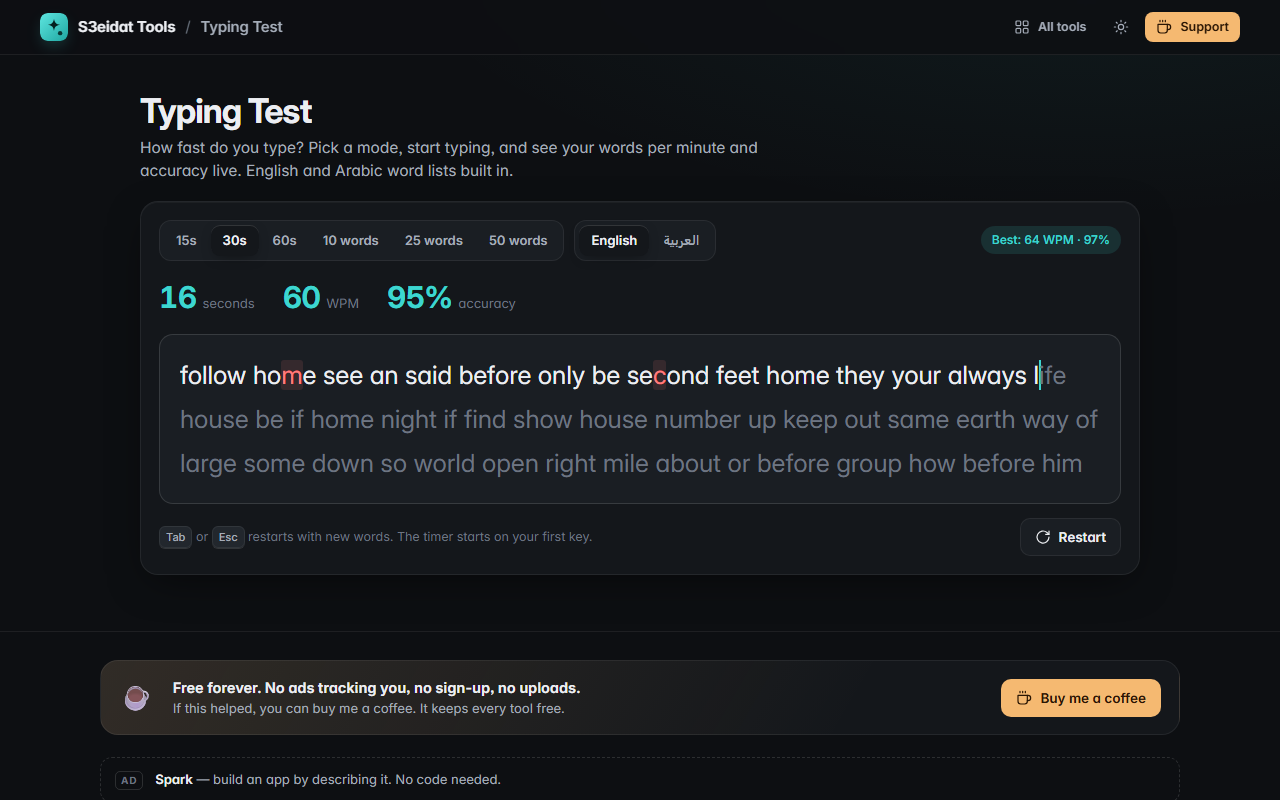
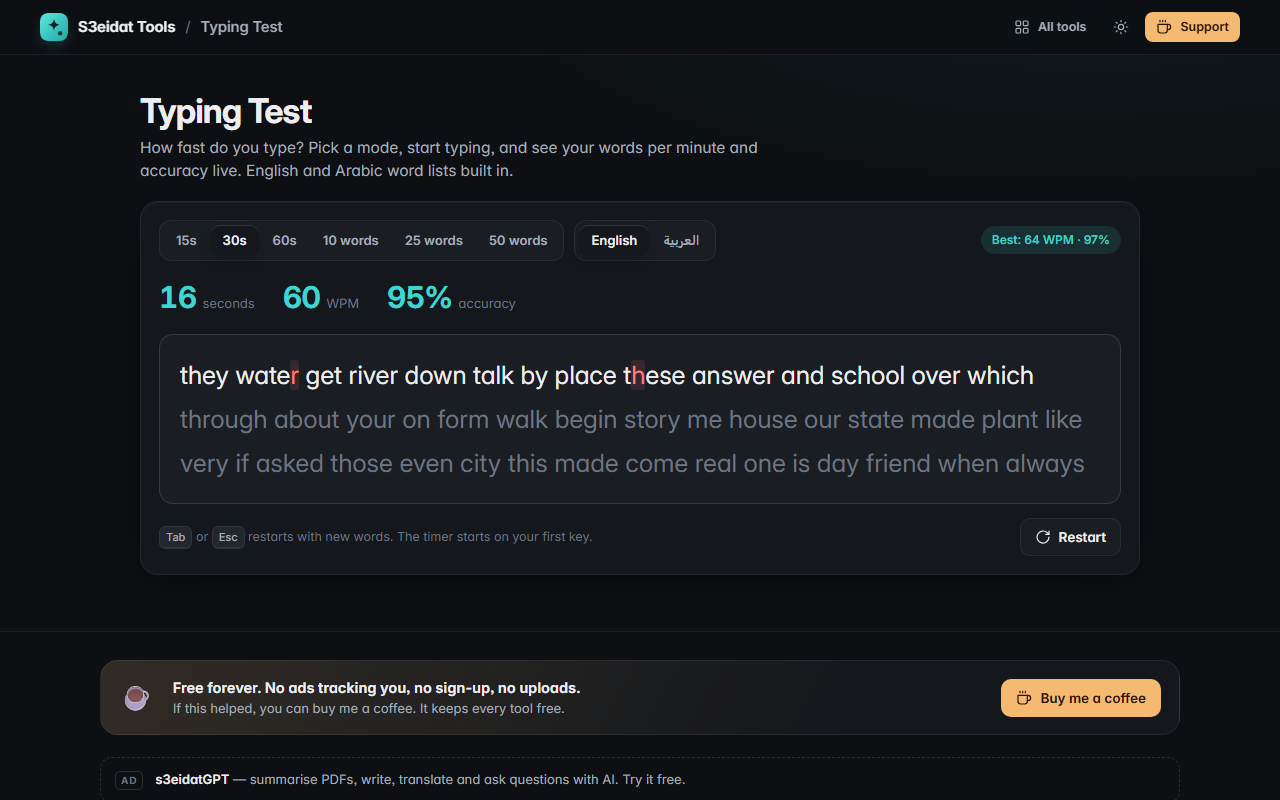
Update

Changed region(s): [[0.125, 0.4375, 0.875, 0.5938], [0.125, 0.9688, 0.5312, 1.0]]

diff --git a/kit/kit.js b/kit/kit.js
@@ -3,8 +3,8 @@
   "use strict";
 
   // Donation links are PUBLIC checkout URLs (no keys). Filled by scripts/sync_kit.py from _kit/config.json.
-  var CONFIG = /*@@CONFIG@@*/{"brand": "S3eidat Tools", "owner": "s3eidat", "support": {"stripe": [{"emoji": "☕", "price": "$3", "label": "One coffee", "url": "https://donate.stripe.com/5kQ28q1FRdYD8UH7SicIE04"}, {"emoji": "☕☕☕", "price": "$9", "label": "Three coffees", "popular": true, "url": "https://donate.stripe.com/4gMeVcgAL7Af4Era0qcIE05"}, {"emoji": "🍰", "price": "$15", "label": "Coffee and cake", "url": "https://donate.stripe.com/00w5kC84f9In6Mz0pQcIE06"}, {"emoji": "💛", "price": "Any amount", "label": "You choose", "url": "https://donate.stripe.com/14AeVc3NZg6L6Mzb4ucIE07"}], "buymeacoffee": "", "kofi": "", "githubSponsors": ""}, "houseAds": [{"title": "s3eidatGPT", "text": "an AI assistant for chat, files and images. Try it free.", "url": "https://ai.s3eidat.com/"}, {"title": "Spark", "text": "build an app by describing it. No code needed.", "url": "https://spark.s3eidat.com/"}]}/*@@END@@*/;
-  var TOOLS = /*@@TOOLS@@*/[{"slug":"json-studio","name":"JSON Studio","tagline":"Format, validate, minify and explore JSON","category":"Developer"},{"slug":"base64-kit","name":"Base64 Kit","tagline":"Encode and decode Base64 text and files","category":"Developer"},{"slug":"hash-lab","name":"Hash Lab","tagline":"MD5, SHA-1, SHA-256, SHA-512 for text and files","category":"Developer"},{"slug":"jwt-inspector","name":"JWT Inspector","tagline":"Decode JSON Web Tokens locally, check expiry","category":"Developer"},{"slug":"uuid-forge","name":"UUID Forge","tagline":"Generate UUID v4, v7, ULID and NanoID in bulk","category":"Developer"},{"slug":"regex-playground","name":"Regex Playground","tagline":"Test regular expressions with live highlighting","category":"Developer"},{"slug":"diff-view","name":"Diff View","tagline":"Compare two texts side by side","category":"Developer"},{"slug":"cron-explain","name":"Cron Explain","tagline":"Turn cron expressions into plain English","category":"Developer"},{"slug":"timestamp-convert","name":"Timestamp Convert","tagline":"Unix time to dates and back, any timezone","category":"Developer"},{"slug":"url-toolkit","name":"URL Toolkit","tagline":"Encode, decode and break down URLs","category":"Developer"},{"slug":"csv-json","name":"CSV ⇄ JSON","tagline":"Convert CSV to JSON and back with preview","category":"Developer"},{"slug":"json-to-types","name":"JSON to Types","tagline":"Generate TypeScript, Go, Python types from JSON","category":"Developer"},{"slug":"chmod-calc","name":"Chmod Calc","tagline":"Unix permission calculator","category":"Developer"},{"slug":"http-status","name":"HTTP Status","tagline":"Every HTTP status code, explained simply","category":"Developer"},{"slug":"color-convert","name":"Color Convert","tagline":"HEX, RGB, HSL, OKLCH and CMYK conversion","category":"Design"},{"slug":"css-gradient","name":"CSS Gradient","tagline":"Build beautiful CSS gradients visually","category":"Design"},{"slug":"box-shadow","name":"Box Shadow","tagline":"Layered box-shadow generator with live preview","category":"Design"},{"slug":"markdown-table","name":"Markdown Table","tagline":"Create and edit Markdown tables visually","category":"Developer"},{"slug":"lorem-gen","name":"Lorem Gen","tagline":"Placeholder text in English and Arabic","category":"Text"},{"slug":"meta-tags","name":"Meta Tags","tagline":"SEO and social preview tag generator","category":"Developer"},{"slug":"word-count","name":"Word Count","tagline":"Words, characters, reading time and more","category":"Text"},{"slug":"case-convert","name":"Case Convert","tagline":"UPPER, lower, Title, camelCase, snake_case…","category":"Text"},{"slug":"arabic-tools","name":"Arabic Tools","tagline":"Remove tashkeel, fix digits, Arabizi to Arabic","category":"Text"},{"slug":"text-cleaner","name":"Text Cleaner","tagline":"Remove duplicates, extra spaces, sort lines","category":"Text"},{"slug":"slugify","name":"Slugify","tagline":"Clean URL slugs from any title, incl. Arabic","category":"Text"},{"slug":"markdown-studio","name":"Markdown Studio","tagline":"Live Markdown editor with preview and export","category":"Text"},{"slug":"local-notes","name":"Local Notes","tagline":"Private notes that live only in your browser","category":"Productivity"},{"slug":"read-aloud","name":"Read Aloud","tagline":"Text to speech with any voice on your device","category":"Text"},{"slug":"fancy-text","name":"Fancy Text","tagline":"𝐁𝐨𝐥𝐝, 𝘪𝘵𝘢𝘭𝘪𝘤, 𝓈𝒸𝓇𝒾𝓅𝓉 and more for bios","category":"Text"},{"slug":"morse-code","name":"Morse Code","tagline":"Translate Morse code and hear it","category":"Text"},{"slug":"typing-test","name":"Typing Test","tagline":"Measure your typing speed and accuracy","category":"Productivity"},{"slug":"readability","name":"Readability","tagline":"Check how easy your writing is to read","category":"Text"},{"slug":"image-squeeze","name":"Image Squeeze","tagline":"Compress JPG, PNG and WebP images in bulk","category":"Images"},{"slug":"image-convert","name":"Image Convert","tagline":"Convert images between PNG, JPG, WebP","category":"Images"},{"slug":"image-resize","name":"Image Resize","tagline":"Resize and crop images to exact sizes","category":"Images"},{"slug":"favicon-forge","name":"Favicon Forge","tagline":"Make a full favicon set from one image","category":"Design"},{"slug":"palette-from-image","name":"Palette From Image","tagline":"Extract a color palette from any photo","category":"Design"},{"slug":"meme-maker","name":"Meme Maker","tagline":"Classic top/bottom text memes in seconds","category":"Images"},{"slug":"watermark","name":"Watermark","tagline":"Add text or logo watermarks to photos","category":"Images"},{"slug":"exif-cleaner","name":"EXIF Cleaner","tagline":"See and remove hidden photo metadata (GPS!)","category":"Security & Privacy"},{"slug":"svg-to-png","name":"SVG to PNG","tagline":"Render SVG files to PNG at any size","category":"Images"},{"slug":"placeholder-image","name":"Placeholder Image","tagline":"Generate placeholder images of any size","category":"Images"},{"slug":"photo-filters","name":"Photo Filters","tagline":"Quick photo edits: light, color, filters","category":"Images"},{"slug":"collage-maker","name":"Collage Maker","tagline":"Combine photos into a neat grid collage","category":"Images"},{"slug":"screenshot-frame","name":"Screenshot Frame","tagline":"Make screenshots look great for sharing","category":"Images"},{"slug":"image-to-base64","name":"Image to Base64","tagline":"Turn images into data URIs and back","category":"Images"},{"slug":"palette-gen","name":"Palette Gen","tagline":"Generate harmonious color palettes","category":"Design"},{"slug":"contrast-check","name":"Contrast Check","tagline":"WCAG color contrast checker","category":"Design"},{"slug":"shade-gen","name":"Shade Gen","tagline":"Tailwind-style 50–950 color scales","category":"Design"},{"slug":"icon-maker","name":"Icon Maker","tagline":"App icons from an emoji or letter","category":"Design"},{"slug":"glass-gen","name":"Glass Gen","tagline":"Glassmorphism CSS generator","category":"Design"},{"slug":"blob-maker","name":"Blob Maker","tagline":"Random organic SVG blob shapes","category":"Design"},{"slug":"qr-studio","name":"QR Studio","tagline":"Custom QR codes for links, Wi-Fi, contacts","category":"QR & Codes"},{"slug":"qr-scanner","name":"QR Scanner","tagline":"Scan QR codes with your camera or an image","category":"QR & Codes"},{"slug":"barcode-gen","name":"Barcode Gen","tagline":"Code 128, EAN-13, UPC-A barcodes as SVG","category":"QR & Codes"},{"slug":"wifi-card","name":"Wi-Fi Card","tagline":"Printable Wi-Fi QR card for guests","category":"QR & Codes"},{"slug":"pdf-merge","name":"PDF Merge","tagline":"Combine PDF files into one","category":"PDF & Docs"},{"slug":"pdf-split","name":"PDF Split","tagline":"Split a PDF or extract pages","category":"PDF & Docs"},{"slug":"pdf-organizer","name":"PDF Organizer","tagline":"Reorder, rotate and delete PDF pages","category":"PDF & Docs"},{"slug":"images-to-pdf","name":"Images to PDF","tagline":"Turn photos and scans into one PDF","category":"PDF & Docs"},{"slug":"pdf-to-images","name":"PDF to Images","tagline":"Export PDF pages as PNG or JPG","category":"PDF & Docs"},{"slug":"invoice-maker","name":"Invoice Maker","tagline":"Clean invoices you can print or save as PDF","category":"PDF & Docs"},{"slug":"resume-builder","name":"Resume Builder","tagline":"A clean one-page CV you can print to PDF","category":"PDF & Docs"},{"slug":"signature-maker","name":"Signature Maker","tagline":"Draw or type a signature, get a clean PNG","category":"PDF & Docs"},{"slug":"loan-calc","name":"Loan Calc","tagline":"Monthly payment and full amortization table","category":"Calculators"},{"slug":"compound-interest","name":"Compound Interest","tagline":"See your savings grow over time","category":"Calculators"},{"slug":"split-bill","name":"Split Bill","tagline":"Split the bill and tip between friends","category":"Calculators"},{"slug":"percentage-calc","name":"Percentage Calc","tagline":"Every percentage question, answered","category":"Calculators"},{"slug":"bmi-calc","name":"BMI Calc","tagline":"BMI, healthy weight range and body stats","category":"Calculators"},{"slug":"age-calc","name":"Age Calc","tagline":"Exact age, next birthday and fun stats","category":"Calculators"},{"slug":"date-diff","name":"Date Diff","tagline":"Days between dates, add or subtract days","category":"Calculators"},{"slug":"unit-convert","name":"Unit Convert","tagline":"Length, weight, temperature, data and more","category":"Calculators"},{"slug":"discount-calc","name":"Discount Calc","tagline":"Sale price, savings and tax in one place","category":"Calculators"},{"slug":"salary-calc","name":"Salary Calc","tagline":"Hourly, daily, monthly, yearly pay converter","category":"Calculators"},{"slug":"gpa-calc","name":"GPA Calc","tagline":"Semester and cumulative GPA for students","category":"Calculators"},{"slug":"zakat-calc","name":"Zakat Calc","tagline":"Calculate zakat on savings, gold and assets","category":"Calculators"},{"slug":"focus-timer","name":"Focus Timer","tagline":"Pomodoro timer with tasks and gentle sounds","category":"Productivity"},{"slug":"world-clock","name":"World Clock","tagline":"Time zones and a meeting planner","category":"Productivity"},{"slug":"stopwatch","name":"Stopwatch","tagline":"Stopwatch, laps and countdown timer","category":"Productivity"},{"slug":"habit-tracker","name":"Habit Tracker","tagline":"Build streaks, privately in your browser","category":"Productivity"},{"slug":"kanban-board","name":"Kanban Board","tagline":"A simple private Kanban board","category":"Productivity"},{"slug":"todo-list","name":"Todo List","tagline":"Fast, keyboard-friendly to-do list","category":"Productivity"},{"slug":"flashcards","name":"Flashcards","tagline":"Study smarter with spaced repetition","category":"Productivity"},{"slug":"wheel-picker","name":"Wheel Picker","tagline":"Spin the wheel to pick a random name","category":"Everyday"},{"slug":"dice-roller","name":"Dice Roller","tagline":"Roll dice, flip coins, draw random numbers","category":"Everyday"},{"slug":"team-maker","name":"Team Maker","tagline":"Split a list of people into random teams","category":"Everyday"},{"slug":"prayer-times","name":"Prayer Times","tagline":"Accurate prayer times for your location","category":"Everyday"},{"slug":"qibla-finder","name":"Qibla Finder","tagline":"Find the Qibla direction from where you are","category":"Everyday"},{"slug":"screen-recorder","name":"Screen Recorder","tagline":"Record your screen with audio, no install","category":"Audio & Video"},{"slug":"voice-recorder","name":"Voice Recorder","tagline":"Record voice memos with a live waveform","category":"Audio & Video"},{"slug":"audio-trimmer","name":"Audio Trimmer","tagline":"Cut and trim audio files in the browser","category":"Audio & Video"},{"slug":"metronome","name":"Metronome","tagline":"Accurate metronome with tap tempo","category":"Audio & Video"},{"slug":"guitar-tuner","name":"Guitar Tuner","tagline":"Tune your guitar with your microphone","category":"Audio & Video"},{"slug":"noise-machine","name":"Noise Machine","tagline":"White, pink and brown noise for focus and sleep","category":"Audio & Video"},{"slug":"device-check","name":"Device Check","tagline":"Test your webcam, mic and speakers","category":"Audio & Video"},{"slug":"video-frames","name":"Video Frames","tagline":"Grab frames and thumbnails from a video","category":"Audio & Video"},{"slug":"pass-forge","name":"Pass Forge","tagline":"Strong passwords and passphrases, made locally","category":"Security & Privacy"},{"slug":"password-check","name":"Password Check","tagline":"How strong is your password, really?","category":"Security & Privacy"},{"slug":"text-encrypt","name":"Text Encrypt","tagline":"Encrypt a message with a password (AES-256)","category":"Security & Privacy"},{"slug":"file-encrypt","name":"File Encrypt","tagline":"Encrypt files with a password, offline","category":"Security & Privacy"},{"slug":"stego-image","name":"Stego Image","tagline":"Hide a secret message inside an image","category":"Security & Privacy"},{"slug":"emoji-search","name":"Emoji Search","tagline":"Find and copy any emoji fast","category":"Everyday"},{"slug":"char-map","name":"Char Map","tagline":"Symbols, arrows, math and special characters","category":"Text"},{"slug":"countdown-maker","name":"Countdown Maker","tagline":"Beautiful countdowns you can share as a link","category":"Everyday"},{"slug":"scoreboard","name":"Scoreboard","tagline":"Keep score for any game, big and simple","category":"Everyday"},{"slug":"receipt-maker","name":"Receipt Maker","tagline":"Quick simple receipts for small sellers","category":"PDF & Docs"},{"slug":"cv-letter","name":"Cover Letter","tagline":"Fill-in-the-blanks cover letter builder","category":"PDF & Docs"},{"slug":"number-words","name":"Number to Words","tagline":"Write numbers as words in English and Arabic","category":"Text"},{"slug":"roman-numerals","name":"Roman Numerals","tagline":"Convert Roman numerals both ways","category":"Calculators"},{"slug":"base-convert","name":"Base Convert","tagline":"Binary, octal, decimal, hex and any base","category":"Developer"},{"slug":"keyboard-tester","name":"Keyboard Tester","tagline":"Test every key on your keyboard","category":"Everyday"},{"slug":"pdf-sign","name":"PDF Sign","tagline":"Sign PDFs without uploading them","category":"PDF & Docs"},{"slug":"pdf-fill","name":"PDF Form Filler","tagline":"Fill in PDF forms in your browser","category":"PDF & Docs"},{"slug":"pdf-compress","name":"PDF Compress","tagline":"Make scanned PDFs much smaller","category":"PDF & Docs"},{"slug":"pdf-page-numbers","name":"PDF Page Numbers","tagline":"Add page numbers, headers and footers","category":"PDF & Docs"},{"slug":"pdf-watermark","name":"PDF Watermark","tagline":"Stamp text or a logo on every PDF page","category":"PDF & Docs"},{"slug":"pdf-to-text","name":"PDF to Text","tagline":"Pull the text out of any PDF","category":"PDF & Docs"},{"slug":"pdf-metadata","name":"PDF Metadata","tagline":"See and remove hidden PDF info","category":"Security & Privacy"},{"slug":"heic-to-jpg","name":"HEIC to JPG","tagline":"Convert iPhone HEIC photos to JPG","category":"Images"},{"slug":"passport-photo","name":"Passport Photo","tagline":"Passport and ID photos, print-ready","category":"Images"},{"slug":"image-redact","name":"Image Redact","tagline":"Hide private info in screenshots for real","category":"Security & Privacy"},{"slug":"gif-maker","name":"GIF Maker","tagline":"Make animated GIFs from images or video","category":"Images"},{"slug":"image-compare","name":"Image Compare","tagline":"Spot the difference between two images","category":"Images"},{"slug":"subnet-calc","name":"Subnet Calc","tagline":"IPv4 and IPv6 subnet calculator","category":"Developer"},{"slug":"sql-format","name":"SQL Format","tagline":"Format and minify SQL queries","category":"Developer"},{"slug":"html-css-format","name":"HTML CSS Format","tagline":"Beautify or minify HTML and CSS","category":"Developer"},{"slug":"yaml-json","name":"YAML ⇄ JSON","tagline":"Convert YAML to JSON and back","category":"Developer"},{"slug":"xml-format","name":"XML Format","tagline":"Format, validate and query XML","category":"Developer"},{"slug":"curl-convert","name":"cURL Convert","tagline":"Turn curl commands into code","category":"Developer"},{"slug":"css-units","name":"CSS Units","tagline":"px, rem, em, pt and vw converter","category":"Developer"},{"slug":"gitignore-gen","name":"Gitignore Gen","tagline":".gitignore files for any stack","category":"Developer"},{"slug":"text-escape","name":"Text Escape","tagline":"Escape and unescape strings for code","category":"Developer"},{"slug":"ua-parser","name":"User Agent Parser","tagline":"Decode any browser user agent","category":"Developer"},{"slug":"citation-gen","name":"Citation Gen","tagline":"APA, MLA, Chicago and Harvard citations","category":"Text"},{"slug":"social-counter","name":"Social Counter","tagline":"Character limits for X, Instagram, SMS…","category":"Text"},{"slug":"email-signature","name":"Email Signature","tagline":"Professional email signatures in a minute","category":"PDF & Docs"},{"slug":"math-worksheet","name":"Math Worksheet","tagline":"Printable maths practice with answer keys","category":"Everyday"},{"slug":"graph-plotter","name":"Graph Plotter","tagline":"Plot functions and explore graphs","category":"Calculators"},{"slug":"sci-calc","name":"Scientific Calculator","tagline":"A full scientific calculator","category":"Calculators"},{"slug":"fraction-calc","name":"Fraction Calc","tagline":"Fractions, mixed numbers and decimals","category":"Calculators"},{"slug":"stats-calc","name":"Stats Calc","tagline":"Mean, median, standard deviation and more","category":"Calculators"},{"slug":"equation-solver","name":"Equation Solver","tagline":"Solve linear, quadratic and systems","category":"Calculators"},{"slug":"prime-tools","name":"Prime Tools","tagline":"Primes, factors, GCD and LCM","category":"Calculators"},{"slug":"arabic-keyboard","name":"Arabic Keyboard","tagline":"Type Arabic without an Arabic keyboard","category":"Text"},{"slug":"hours-calc","name":"Hours Calc","tagline":"Time card and hours worked calculator","category":"Calculators"},{"slug":"due-date","name":"Due Date","tagline":"Pregnancy due date and week by week","category":"Calculators"},{"slug":"sleep-calc","name":"Sleep Calc","tagline":"Best times to sleep and wake up","category":"Everyday"},{"slug":"secret-santa","name":"Secret Santa","tagline":"Draw names fairly, no emails needed","category":"Everyday"},{"slug":"calendar-maker","name":"Calendar Maker","tagline":"Printable monthly and yearly calendars","category":"PDF & Docs"},{"slug":"bingo-maker","name":"Bingo Maker","tagline":"Printable bingo cards and a caller","category":"Everyday"},{"slug":"sudoku","name":"Sudoku","tagline":"Play, generate and solve Sudoku","category":"Everyday"},{"slug":"whiteboard","name":"Whiteboard","tagline":"A simple drawing board that saves itself","category":"Productivity"},{"slug":"fuel-cost","name":"Fuel Cost","tagline":"What will this trip cost in fuel?","category":"Calculators"},{"slug":"image-to-text","name":"Image to Text","tagline":"Extract text from images and scanned PDFs (OCR)","category":"Images"},{"slug":"mp3-converter","name":"MP3 Converter","tagline":"Turn video or audio into MP3","category":"Audio & Video"},{"slug":"layout-fixer","name":"Layout Fixer","tagline":"Fix text typed in the wrong keyboard layout","category":"Text"},{"slug":"hijri-converter","name":"Hijri Converter","tagline":"Hijri to Gregorian dates and back","category":"Calculators"},{"slug":"tasbih-counter","name":"Tasbih Counter","tagline":"A simple digital tasbih counter","category":"Everyday"},{"slug":"cash-counter","name":"Cash Counter","tagline":"Count cash by notes and coins","category":"Calculators"},{"slug":"attendance-sheet","name":"Attendance Sheet","tagline":"Printable attendance and sign-in sheets","category":"PDF & Docs"},{"slug":"business-card","name":"Business Card","tagline":"Design and print business cards","category":"PDF & Docs"},{"slug":"label-maker","name":"Label Maker","tagline":"Print address and product labels","category":"PDF & Docs"},{"slug":"colorblind-sim","name":"Colorblind Sim","tagline":"See images as colour-blind people do","category":"Design"},{"slug":"screen-eyedropper","name":"Screen Eyedropper","tagline":"Pick any colour from your screen","category":"Design"},{"slug":"ascii-art","name":"ASCII Art","tagline":"Turn images and text into ASCII art","category":"Images"},{"slug":"speed-reader","name":"Speed Reader","tagline":"Read faster, one word at a time","category":"Text"},{"slug":"profile-pic","name":"Profile Picture","tagline":"Round profile pictures with borders","category":"Images"},{"slug":"quote-card","name":"Quote Card","tagline":"Turn text into shareable image posts","category":"Images"},{"slug":"bg-remover","name":"Background Remover","tagline":"Remove image backgrounds free, on your device","category":"Images"},{"slug":"transcribe","name":"Transcribe","tagline":"Audio and video to text and subtitles, privately","category":"Audio & Video"},{"slug":"image-upscale","name":"Image Upscaler","tagline":"Enlarge images 2x with AI, free","category":"Images"}]/*@@END@@*/;
+  var CONFIG = /*@@CONFIG@@*/{"brand": "S3eidat Tools", "owner": "s3eidat", "support": {"stripe": [{"emoji": "☕", "price": "$3", "label": "One coffee", "url": "https://donate.stripe.com/5kQ28q1FRdYD8UH7SicIE04"}, {"emoji": "☕☕☕", "price": "$9", "label": "Three coffees", "popular": true, "url": "https://donate.stripe.com/4gMeVcgAL7Af4Era0qcIE05"}, {"emoji": "🍰", "price": "$15", "label": "Coffee and cake", "url": "https://donate.stripe.com/00w5kC84f9In6Mz0pQcIE06"}, {"emoji": "💛", "price": "Any amount", "label": "You choose", "url": "https://donate.stripe.com/14AeVc3NZg6L6Mzb4ucIE07"}], "buymeacoffee": "", "kofi": "", "githubSponsors": ""}, "houseAds": [{"title": "s3eidatGPT", "text": "summarise PDFs, write, translate and ask questions with AI. Try it free.", "url": "https://ai.s3eidat.com/?ref=s3tools", "cats": ["Audio & Video", "Calculators", "Everyday", "Images", "PDF & Docs", "Productivity", "Security & Privacy", "Text"]}, {"title": "Spark", "text": "build an app by describing it. No code needed.", "url": "https://spark.s3eidat.com/?ref=s3tools", "cats": ["Design", "Developer", "QR & Codes"]}]}/*@@END@@*/;
+  var TOOLS = /*@@TOOLS@@*/[{"slug":"json-studio","name":"JSON Studio","tagline":"Format, validate, minify and explore JSON","category":"Developer"},{"slug":"base64-kit","name":"Base64 Kit","tagline":"Encode and decode Base64 text and files","category":"Developer"},{"slug":"hash-lab","name":"Hash Lab","tagline":"MD5, SHA-1, SHA-256, SHA-512 for text and files","category":"Developer"},{"slug":"jwt-inspector","name":"JWT Inspector","tagline":"Decode JSON Web Tokens locally, check expiry","category":"Developer"},{"slug":"uuid-forge","name":"UUID Forge","tagline":"Generate UUID v4, v7, ULID and NanoID in bulk","category":"Developer"},{"slug":"regex-playground","name":"Regex Playground","tagline":"Test regular expressions with live highlighting","category":"Developer"},{"slug":"diff-view","name":"Diff View","tagline":"Compare two texts side by side","category":"Developer"},{"slug":"cron-explain","name":"Cron Explain","tagline":"Turn cron expressions into plain English","category":"Developer"},{"slug":"timestamp-convert","name":"Timestamp Convert","tagline":"Unix time to dates and back, any timezone","category":"Developer"},{"slug":"url-toolkit","name":"URL Toolkit","tagline":"Encode, decode and break down URLs","category":"Developer"},{"slug":"csv-json","name":"CSV ⇄ JSON","tagline":"Convert CSV to JSON and back with preview","category":"Developer"},{"slug":"json-to-types","name":"JSON to Types","tagline":"Generate TypeScript, Go, Python types from JSON","category":"Developer"},{"slug":"chmod-calc","name":"Chmod Calc","tagline":"Unix permission calculator","category":"Developer"},{"slug":"http-status","name":"HTTP Status","tagline":"Every HTTP status code, explained simply","category":"Developer"},{"slug":"color-convert","name":"Color Convert","tagline":"HEX, RGB, HSL, OKLCH and CMYK conversion","category":"Design"},{"slug":"css-gradient","name":"CSS Gradient","tagline":"Build beautiful CSS gradients visually","category":"Design"},{"slug":"box-shadow","name":"Box Shadow","tagline":"Layered box-shadow generator with live preview","category":"Design"},{"slug":"markdown-table","name":"Markdown Table","tagline":"Create and edit Markdown tables visually","category":"Developer"},{"slug":"lorem-gen","name":"Lorem Gen","tagline":"Placeholder text in English and Arabic","category":"Text"},{"slug":"meta-tags","name":"Meta Tags","tagline":"SEO and social preview tag generator","category":"Developer"},{"slug":"word-count","name":"Word Count","tagline":"Words, characters, reading time and more","category":"Text"},{"slug":"case-convert","name":"Case Convert","tagline":"UPPER, lower, Title, camelCase, snake_case…","category":"Text"},{"slug":"arabic-tools","name":"Arabic Tools","tagline":"Remove tashkeel, fix digits, Arabizi to Arabic","category":"Text"},{"slug":"text-cleaner","name":"Text Cleaner","tagline":"Remove duplicates, extra spaces, sort lines","category":"Text"},{"slug":"slugify","name":"Slugify","tagline":"Clean URL slugs from any title, incl. Arabic","category":"Text"},{"slug":"markdown-studio","name":"Markdown Studio","tagline":"Live Markdown editor with preview and export","category":"Text"},{"slug":"local-notes","name":"Local Notes","tagline":"Private notes that live only in your browser","category":"Productivity"},{"slug":"read-aloud","name":"Read Aloud","tagline":"Text to speech with any voice on your device","category":"Text"},{"slug":"fancy-text","name":"Fancy Text","tagline":"𝐁𝐨𝐥𝐝, 𝘪𝘵𝘢𝘭𝘪𝘤, 𝓈𝒸𝓇𝒾𝓅𝓉 and more for bios","category":"Text"},{"slug":"morse-code","name":"Morse Code","tagline":"Translate Morse code and hear it","category":"Text"},{"slug":"typing-test","name":"Typing Test","tagline":"Measure your typing speed and accuracy","category":"Productivity"},{"slug":"readability","name":"Readability","tagline":"Check how easy your writing is to read","category":"Text"},{"slug":"image-squeeze","name":"Image Squeeze","tagline":"Compress JPG, PNG and WebP images in bulk","category":"Images"},{"slug":"image-convert","name":"Image Convert","tagline":"Convert images between PNG, JPG, WebP","category":"Images"},{"slug":"image-resize","name":"Image Resize","tagline":"Resize and crop images to exact sizes","category":"Images"},{"slug":"favicon-forge","name":"Favicon Forge","tagline":"Make a full favicon set from one image","category":"Design"},{"slug":"palette-from-image","name":"Palette From Image","tagline":"Extract a color palette from any photo","category":"Design"},{"slug":"meme-maker","name":"Meme Maker","tagline":"Classic top/bottom text memes in seconds","category":"Images"},{"slug":"watermark","name":"Watermark","tagline":"Add text or logo watermarks to photos","category":"Images"},{"slug":"exif-cleaner","name":"EXIF Cleaner","tagline":"See and remove hidden photo metadata (GPS!)","category":"Security & Privacy"},{"slug":"svg-to-png","name":"SVG to PNG","tagline":"Render SVG files to PNG at any size","category":"Images"},{"slug":"placeholder-image","name":"Placeholder Image","tagline":"Generate placeholder images of any size","category":"Images"},{"slug":"photo-filters","name":"Photo Filters","tagline":"Quick photo edits: light, color, filters","category":"Images"},{"slug":"collage-maker","name":"Collage Maker","tagline":"Combine photos into a neat grid collage","category":"Images"},{"slug":"screenshot-frame","name":"Screenshot Frame","tagline":"Make screenshots look great for sharing","category":"Images"},{"slug":"image-to-base64","name":"Image to Base64","tagline":"Turn images into data URIs and back","category":"Images"},{"slug":"palette-gen","name":"Palette Gen","tagline":"Generate harmonious color palettes","category":"Design"},{"slug":"contrast-check","name":"Contrast Check","tagline":"WCAG color contrast checker","category":"Design"},{"slug":"shade-gen","name":"Shade Gen","tagline":"Tailwind-style 50–950 color scales","category":"Design"},{"slug":"icon-maker","name":"Icon Maker","tagline":"App icons from an emoji or letter","category":"Design"},{"slug":"glass-gen","name":"Glass Gen","tagline":"Glassmorphism CSS generator","category":"Design"},{"slug":"blob-maker","name":"Blob Maker","tagline":"Random organic SVG blob shapes","category":"Design"},{"slug":"qr-studio","name":"QR Studio","tagline":"Custom QR codes for links, Wi-Fi, contacts","category":"QR & Codes"},{"slug":"qr-scanner","name":"QR Scanner","tagline":"Scan QR codes with your camera or an image","category":"QR & Codes"},{"slug":"barcode-gen","name":"Barcode Gen","tagline":"Code 128, EAN-13, UPC-A barcodes as SVG","category":"QR & Codes"},{"slug":"wifi-card","name":"Wi-Fi Card","tagline":"Printable Wi-Fi QR card for guests","category":"QR & Codes"},{"slug":"pdf-merge","name":"PDF Merge","tagline":"Combine PDF files into one","category":"PDF & Docs"},{"slug":"pdf-split","name":"PDF Split","tagline":"Split a PDF or extract pages","category":"PDF & Docs"},{"slug":"pdf-organizer","name":"PDF Organizer","tagline":"Reorder, rotate and delete PDF pages","category":"PDF & Docs"},{"slug":"images-to-pdf","name":"Images to PDF","tagline":"Turn photos and scans into one PDF","category":"PDF & Docs"},{"slug":"pdf-to-images","name":"PDF to Images","tagline":"Export PDF pages as PNG or JPG","category":"PDF & Docs"},{"slug":"invoice-maker","name":"Invoice Maker","tagline":"Clean invoices you can print or save as PDF","category":"PDF & Docs"},{"slug":"resume-builder","name":"Resume Builder","tagline":"A clean one-page CV you can print to PDF","category":"PDF & Docs"},{"slug":"signature-maker","name":"Signature Maker","tagline":"Draw or type a signature, get a clean PNG","category":"PDF & Docs"},{"slug":"loan-calc","name":"Loan Calc","tagline":"Monthly payment and full amortization table","category":"Calculators"},{"slug":"compound-interest","name":"Compound Interest","tagline":"See your savings grow over time","category":"Calculators"},{"slug":"split-bill","name":"Split Bill","tagline":"Split the bill and tip between friends","category":"Calculators"},{"slug":"percentage-calc","name":"Percentage Calc","tagline":"Every percentage question, answered","category":"Calculators"},{"slug":"bmi-calc","name":"BMI Calc","tagline":"BMI, healthy weight range and body stats","category":"Calculators"},{"slug":"age-calc","name":"Age Calc","tagline":"Exact age, next birthday and fun stats","category":"Calculators"},{"slug":"date-diff","name":"Date Diff","tagline":"Days between dates, add or subtract days","category":"Calculators"},{"slug":"unit-convert","name":"Unit Convert","tagline":"Length, weight, temperature, data and more","category":"Calculators"},{"slug":"discount-calc","name":"Discount Calc","tagline":"Sale price, savings and tax in one place","category":"Calculators"},{"slug":"salary-calc","name":"Salary Calc","tagline":"Hourly, daily, monthly, yearly pay converter","category":"Calculators"},{"slug":"gpa-calc","name":"GPA Calc","tagline":"Semester and cumulative GPA for students","category":"Calculators"},{"slug":"zakat-calc","name":"Zakat Calc","tagline":"Calculate zakat on savings, gold and assets","category":"Calculators"},{"slug":"focus-timer","name":"Focus Timer","tagline":"Pomodoro timer with tasks and gentle sounds","category":"Productivity"},{"slug":"world-clock","name":"World Clock","tagline":"Time zones and a meeting planner","category":"Productivity"},{"slug":"stopwatch","name":"Stopwatch","tagline":"Stopwatch, laps and countdown timer","category":"Productivity"},{"slug":"habit-tracker","name":"Habit Tracker","tagline":"Build streaks, privately in your browser","category":"Productivity"},{"slug":"kanban-board","name":"Kanban Board","tagline":"A simple private Kanban board","category":"Productivity"},{"slug":"todo-list","name":"Todo List","tagline":"Fast, keyboard-friendly to-do list","category":"Productivity"},{"slug":"flashcards","name":"Flashcards","tagline":"Study smarter with spaced repetition","category":"Productivity"},{"slug":"wheel-picker","name":"Wheel Picker","tagline":"Spin the wheel to pick a random name","category":"Everyday"},{"slug":"dice-roller","name":"Dice Roller","tagline":"Roll dice, flip coins, draw random numbers","category":"Everyday"},{"slug":"team-maker","name":"Team Maker","tagline":"Split a list of people into random teams","category":"Everyday"},{"slug":"prayer-times","name":"Prayer Times","tagline":"Accurate prayer times for your location","category":"Everyday"},{"slug":"qibla-finder","name":"Qibla Finder","tagline":"Find the Qibla direction from where you are","category":"Everyday"},{"slug":"screen-recorder","name":"Screen Recorder","tagline":"Record your screen with audio, no install","category":"Audio & Video"},{"slug":"voice-recorder","name":"Voice Recorder","tagline":"Record voice memos with a live waveform","category":"Audio & Video"},{"slug":"audio-trimmer","name":"Audio Trimmer","tagline":"Cut and trim audio files in the browser","category":"Audio & Video"},{"slug":"metronome","name":"Metronome","tagline":"Accurate metronome with tap tempo","category":"Audio & Video"},{"slug":"guitar-tuner","name":"Guitar Tuner","tagline":"Tune your guitar with your microphone","category":"Audio & Video"},{"slug":"noise-machine","name":"Noise Machine","tagline":"White, pink and brown noise for focus and sleep","category":"Audio & Video"},{"slug":"device-check","name":"Device Check","tagline":"Test your webcam, mic and speakers","category":"Audio & Video"},{"slug":"video-frames","name":"Video Frames","tagline":"Grab frames and thumbnails from a video","category":"Audio & Video"},{"slug":"pass-forge","name":"Pass Forge","tagline":"Strong passwords and passphrases, made locally","category":"Security & Privacy"},{"slug":"password-check","name":"Password Check","tagline":"How strong is your password, really?","category":"Security & Privacy"},{"slug":"text-encrypt","name":"Text Encrypt","tagline":"Encrypt a message with a password (AES-256)","category":"Security & Privacy"},{"slug":"file-encrypt","name":"File Encrypt","tagline":"Encrypt files with a password, offline","category":"Security & Privacy"},{"slug":"stego-image","name":"Stego Image","tagline":"Hide a secret message inside an image","category":"Security & Privacy"},{"slug":"emoji-search","name":"Emoji Search","tagline":"Find and copy any emoji fast","category":"Everyday"},{"slug":"char-map","name":"Char Map","tagline":"Symbols, arrows, math and special characters","category":"Text"},{"slug":"countdown-maker","name":"Countdown Maker","tagline":"Beautiful countdowns you can share as a link","category":"Everyday"},{"slug":"scoreboard","name":"Scoreboard","tagline":"Keep score for any game, big and simple","category":"Everyday"},{"slug":"receipt-maker","name":"Receipt Maker","tagline":"Quick simple receipts for small sellers","category":"PDF & Docs"},{"slug":"cv-letter","name":"Cover Letter","tagline":"Fill-in-the-blanks cover letter builder","category":"PDF & Docs"},{"slug":"number-words","name":"Number to Words","tagline":"Write numbers as words in English and Arabic","category":"Text"},{"slug":"roman-numerals","name":"Roman Numerals","tagline":"Convert Roman numerals both ways","category":"Calculators"},{"slug":"base-convert","name":"Base Convert","tagline":"Binary, octal, decimal, hex and any base","category":"Developer"},{"slug":"keyboard-tester","name":"Keyboard Tester","tagline":"Test every key on your keyboard","category":"Everyday"},{"slug":"pdf-sign","name":"PDF Sign","tagline":"Sign PDFs without uploading them","category":"PDF & Docs"},{"slug":"pdf-fill","name":"PDF Form Filler","tagline":"Fill in PDF forms in your browser","category":"PDF & Docs"},{"slug":"pdf-compress","name":"PDF Compress","tagline":"Make scanned PDFs much smaller","category":"PDF & Docs"},{"slug":"pdf-page-numbers","name":"PDF Page Numbers","tagline":"Add page numbers, headers and footers","category":"PDF & Docs"},{"slug":"pdf-watermark","name":"PDF Watermark","tagline":"Stamp text or a logo on every PDF page","category":"PDF & Docs"},{"slug":"pdf-to-text","name":"PDF to Text","tagline":"Pull the text out of any PDF","category":"PDF & Docs"},{"slug":"pdf-metadata","name":"PDF Metadata","tagline":"See and remove hidden PDF info","category":"Security & Privacy"},{"slug":"heic-to-jpg","name":"HEIC to JPG","tagline":"Convert iPhone HEIC photos to JPG","category":"Images"},{"slug":"passport-photo","name":"Passport Photo","tagline":"Passport and ID photos, print-ready","category":"Images"},{"slug":"image-redact","name":"Image Redact","tagline":"Hide private info in screenshots for real","category":"Security & Privacy"},{"slug":"gif-maker","name":"GIF Maker","tagline":"Make animated GIFs from images or video","category":"Images"},{"slug":"image-compare","name":"Image Compare","tagline":"Spot the difference between two images","category":"Images"},{"slug":"subnet-calc","name":"Subnet Calc","tagline":"IPv4 and IPv6 subnet calculator","category":"Developer"},{"slug":"sql-format","name":"SQL Format","tagline":"Format and minify SQL queries","category":"Developer"},{"slug":"html-css-format","name":"HTML CSS Format","tagline":"Beautify or minify HTML and CSS","category":"Developer"},{"slug":"yaml-json","name":"YAML ⇄ JSON","tagline":"Convert YAML to JSON and back","category":"Developer"},{"slug":"xml-format","name":"XML Format","tagline":"Format, validate and query XML","category":"Developer"},{"slug":"curl-convert","name":"cURL Convert","tagline":"Turn curl commands into code","category":"Developer"},{"slug":"css-units","name":"CSS Units","tagline":"px, rem, em, pt and vw converter","category":"Developer"},{"slug":"gitignore-gen","name":"Gitignore Gen","tagline":".gitignore files for any stack","category":"Developer"},{"slug":"text-escape","name":"Text Escape","tagline":"Escape and unescape strings for code","category":"Developer"},{"slug":"ua-parser","name":"User Agent Parser","tagline":"Decode any browser user agent","category":"Developer"},{"slug":"citation-gen","name":"Citation Gen","tagline":"APA, MLA, Chicago and Harvard citations","category":"Text"},{"slug":"social-counter","name":"Social Counter","tagline":"Character limits for X, Instagram, SMS…","category":"Text"},{"slug":"email-signature","name":"Email Signature","tagline":"Professional email signatures in a minute","category":"PDF & Docs"},{"slug":"math-worksheet","name":"Math Worksheet","tagline":"Printable maths practice with answer keys","category":"Everyday"},{"slug":"graph-plotter","name":"Graph Plotter","tagline":"Plot functions and explore graphs","category":"Calculators"},{"slug":"sci-calc","name":"Scientific Calculator","tagline":"A full scientific calculator","category":"Calculators"},{"slug":"fraction-calc","name":"Fraction Calc","tagline":"Fractions, mixed numbers and decimals","category":"Calculators"},{"slug":"stats-calc","name":"Stats Calc","tagline":"Mean, median, standard deviation and more","category":"Calculators"},{"slug":"equation-solver","name":"Equation Solver","tagline":"Solve linear, quadratic and systems","category":"Calculators"},{"slug":"prime-tools","name":"Prime Tools","tagline":"Primes, factors, GCD and LCM","category":"Calculators"},{"slug":"arabic-keyboard","name":"Arabic Keyboard","tagline":"Type Arabic without an Arabic keyboard","category":"Text"},{"slug":"hours-calc","name":"Hours Calc","tagline":"Time card and hours worked calculator","category":"Calculators"},{"slug":"due-date","name":"Due Date","tagline":"Pregnancy due date and week by week","category":"Calculators"},{"slug":"sleep-calc","name":"Sleep Calc","tagline":"Best times to sleep and wake up","category":"Everyday"},{"slug":"secret-santa","name":"Secret Santa","tagline":"Draw names fairly, no emails needed","category":"Everyday"},{"slug":"calendar-maker","name":"Calendar Maker","tagline":"Printable monthly and yearly calendars","category":"PDF & Docs"},{"slug":"bingo-maker","name":"Bingo Maker","tagline":"Printable bingo cards and a caller","category":"Everyday"},{"slug":"sudoku","name":"Sudoku","tagline":"Play, generate and solve Sudoku","category":"Everyday"},{"slug":"whiteboard","name":"Whiteboard","tagline":"A simple drawing board that saves itself","category":"Productivity"},{"slug":"fuel-cost","name":"Fuel Cost","tagline":"What will this trip cost in fuel?","category":"Calculators"},{"slug":"image-to-text","name":"Image to Text","tagline":"Extract text from images and scanned PDFs (OCR)","category":"Images"},{"slug":"mp3-converter","name":"MP3 Converter","tagline":"Turn video or audio into MP3","category":"Audio & Video"},{"slug":"layout-fixer","name":"Layout Fixer","tagline":"Fix text typed in the wrong keyboard layout","category":"Text"},{"slug":"hijri-converter","name":"Hijri Converter","tagline":"Hijri to Gregorian dates and back","category":"Calculators"},{"slug":"tasbih-counter","name":"Tasbih Counter","tagline":"A simple digital tasbih counter","category":"Everyday"},{"slug":"cash-counter","name":"Cash Counter","tagline":"Count cash by notes and coins","category":"Calculators"},{"slug":"attendance-sheet","name":"Attendance Sheet","tagline":"Printable attendance and sign-in sheets","category":"PDF & Docs"},{"slug":"business-card","name":"Business Card","tagline":"Design and print business cards","category":"PDF & Docs"},{"slug":"label-maker","name":"Label Maker","tagline":"Print address and product labels","category":"PDF & Docs"},{"slug":"colorblind-sim","name":"Colorblind Sim","tagline":"See images as colour-blind people do","category":"Design"},{"slug":"screen-eyedropper","name":"Screen Eyedropper","tagline":"Pick any colour from your screen","category":"Design"},{"slug":"ascii-art","name":"ASCII Art","tagline":"Turn images and text into ASCII art","category":"Images"},{"slug":"speed-reader","name":"Speed Reader","tagline":"Read faster, one word at a time","category":"Text"},{"slug":"profile-pic","name":"Profile Picture","tagline":"Round profile pictures with borders","category":"Images"},{"slug":"quote-card","name":"Quote Card","tagline":"Turn text into shareable image posts","category":"Images"},{"slug":"bg-remover","name":"Background Remover","tagline":"Remove image backgrounds free, on your device","category":"Images"},{"slug":"transcribe","name":"Transcribe","tagline":"Audio and video to text and subtitles, privately","category":"Audio & Video"},{"slug":"image-upscale","name":"Image Upscaler","tagline":"Enlarge images 2x with AI, free","category":"Images"},{"slug":"design-studio","name":"Design Studio","tagline":"Design social posts, flyers and CVs free","category":"Design"},{"slug":"pages","name":"Pages","tagline":"Notes and docs with blocks, all private","category":"Productivity"},{"slug":"sheets","name":"Sheets","tagline":"A free spreadsheet that opens Excel files","category":"Productivity"},{"slug":"slides","name":"Slides","tagline":"Make presentations free and present anywhere","category":"Productivity"},{"slug":"photo-editor","name":"Photo Editor","tagline":"A layered photo editor in your browser","category":"Images"},{"slug":"docs","name":"Docs","tagline":"Write documents and export Word or PDF","category":"PDF & Docs"},{"slug":"video-editor","name":"Video Editor","tagline":"Cut, caption and export videos free","category":"Audio & Video"}]/*@@END@@*/;
 
   var doc = document, root = doc.documentElement;
   var KIT_BASE = doc.currentScript ? doc.currentScript.src.replace(/[^/]*$/, "") : "kit/";
@@ -224,7 +224,9 @@
     return top;
   }
   function footer(tool) {
-    var ad = (CONFIG.houseAds || [])[Math.floor(Math.random() * (CONFIG.houseAds || []).length)];
+    // an ad may list the tool categories it fits ("cats"); the hub (no category) can show any
+    var ads = (CONFIG.houseAds || []).filter(function (a) { return !tool.category || !a.cats || a.cats.indexOf(tool.category) >= 0; });
+    var ad = ads[Math.floor(Math.random() * ads.length)];
     var cat = tool.category, pool = TOOLS.filter(function (t) { return t.slug !== tool.slug; });
     pool.sort(function (a, b) { return (b.category === cat) - (a.category === cat) || (a.slug < b.slug ? -1 : 1); });
     var more = doc.body.getAttribute("data-more") === "off" ? [] : pool.slice(0, 8);
